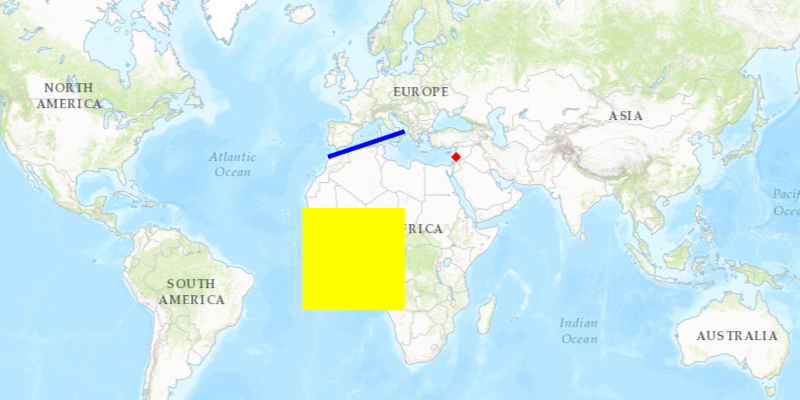
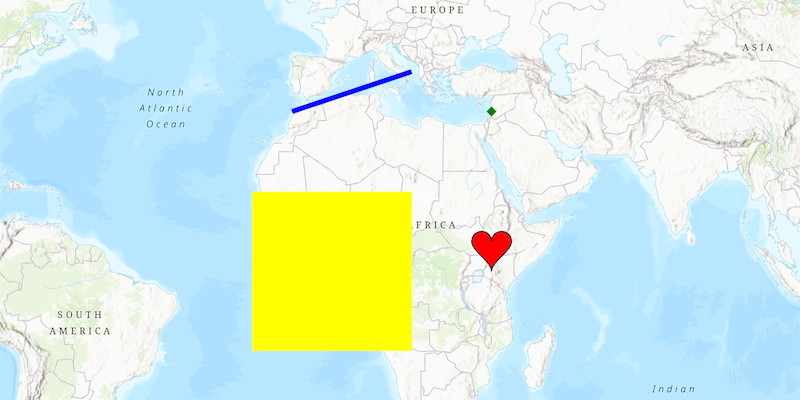
update image, readme and metadata

diff --git a/display_information/add-graphics-with-renderer/src/main/java/com/esri/samples/add_graphics_with_renderer/AddGraphicsWithRendererSample.java b/display_information/add-graphics-with-renderer/src/main/java/com/esri/samples/add_graphics_with_renderer/AddGraphicsWithRendererSample.java
@@ -86,8 +86,8 @@ public class AddGraphicsWithRendererSample extends Application {
       Point point = new Point(40e5, 40e5, SpatialReferences.getWebMercator());
       // create graphic for point
       Graphic pointGraphic = new Graphic(point);
-      // red diamond point symbol
-      SimpleMarkerSymbol pointSymbol = new SimpleMarkerSymbol(SimpleMarkerSymbol.Style.DIAMOND, ColorUtil.colorToArgb(Color.RED), 10);
+      // green diamond point symbol
+      SimpleMarkerSymbol pointSymbol = new SimpleMarkerSymbol(SimpleMarkerSymbol.Style.DIAMOND, ColorUtil.colorToArgb(Color.GREEN), 10);
       // create simple renderer
       SimpleRenderer pointRenderer = new SimpleRenderer(pointSymbol);
       // set renderer on graphics overlay

diff --git a/display_information/add-graphics-with-renderer/README.md b/display_information/add-graphics-with-renderer/README.md
@@ -10,7 +10,7 @@ A renderer allows you to change the style of all graphics in an overlay by only 
 
 ## How to use the sample
 
-Run the sample and view graphics for points, lines, and polygons, which are stylized using renderers.
+Pan and zoom on the map to view graphics for points, lines, and polygons (including polygons with curve segments) which are stylized using renderers.
 
 ## How it works
 
@@ -22,9 +22,14 @@ Run the sample and view graphics for points, lines, and polygons, which are styl
 
 ## Relevant API
 
+* CubicBezierSegment
+* EllipticArcSegment
 * Geometry
 * Graphic
 * GraphicsOverlay
+* Part
+* PolygonBuilder
+* PolylineBuilder
 * SimpleFillSymbol
 * SimpleLineSymbol
 * SimpleMarkerSymbol
@@ -36,4 +41,4 @@ To set unique symbols across a number of graphics (e.g. showing graphics of indi
 
 ## Tags
 
-display, graphics, marker, overlay, renderer, symbol
+arc, bezier, curve, display, graphics, marker, overlay, renderer, segment, symbol, true curve
